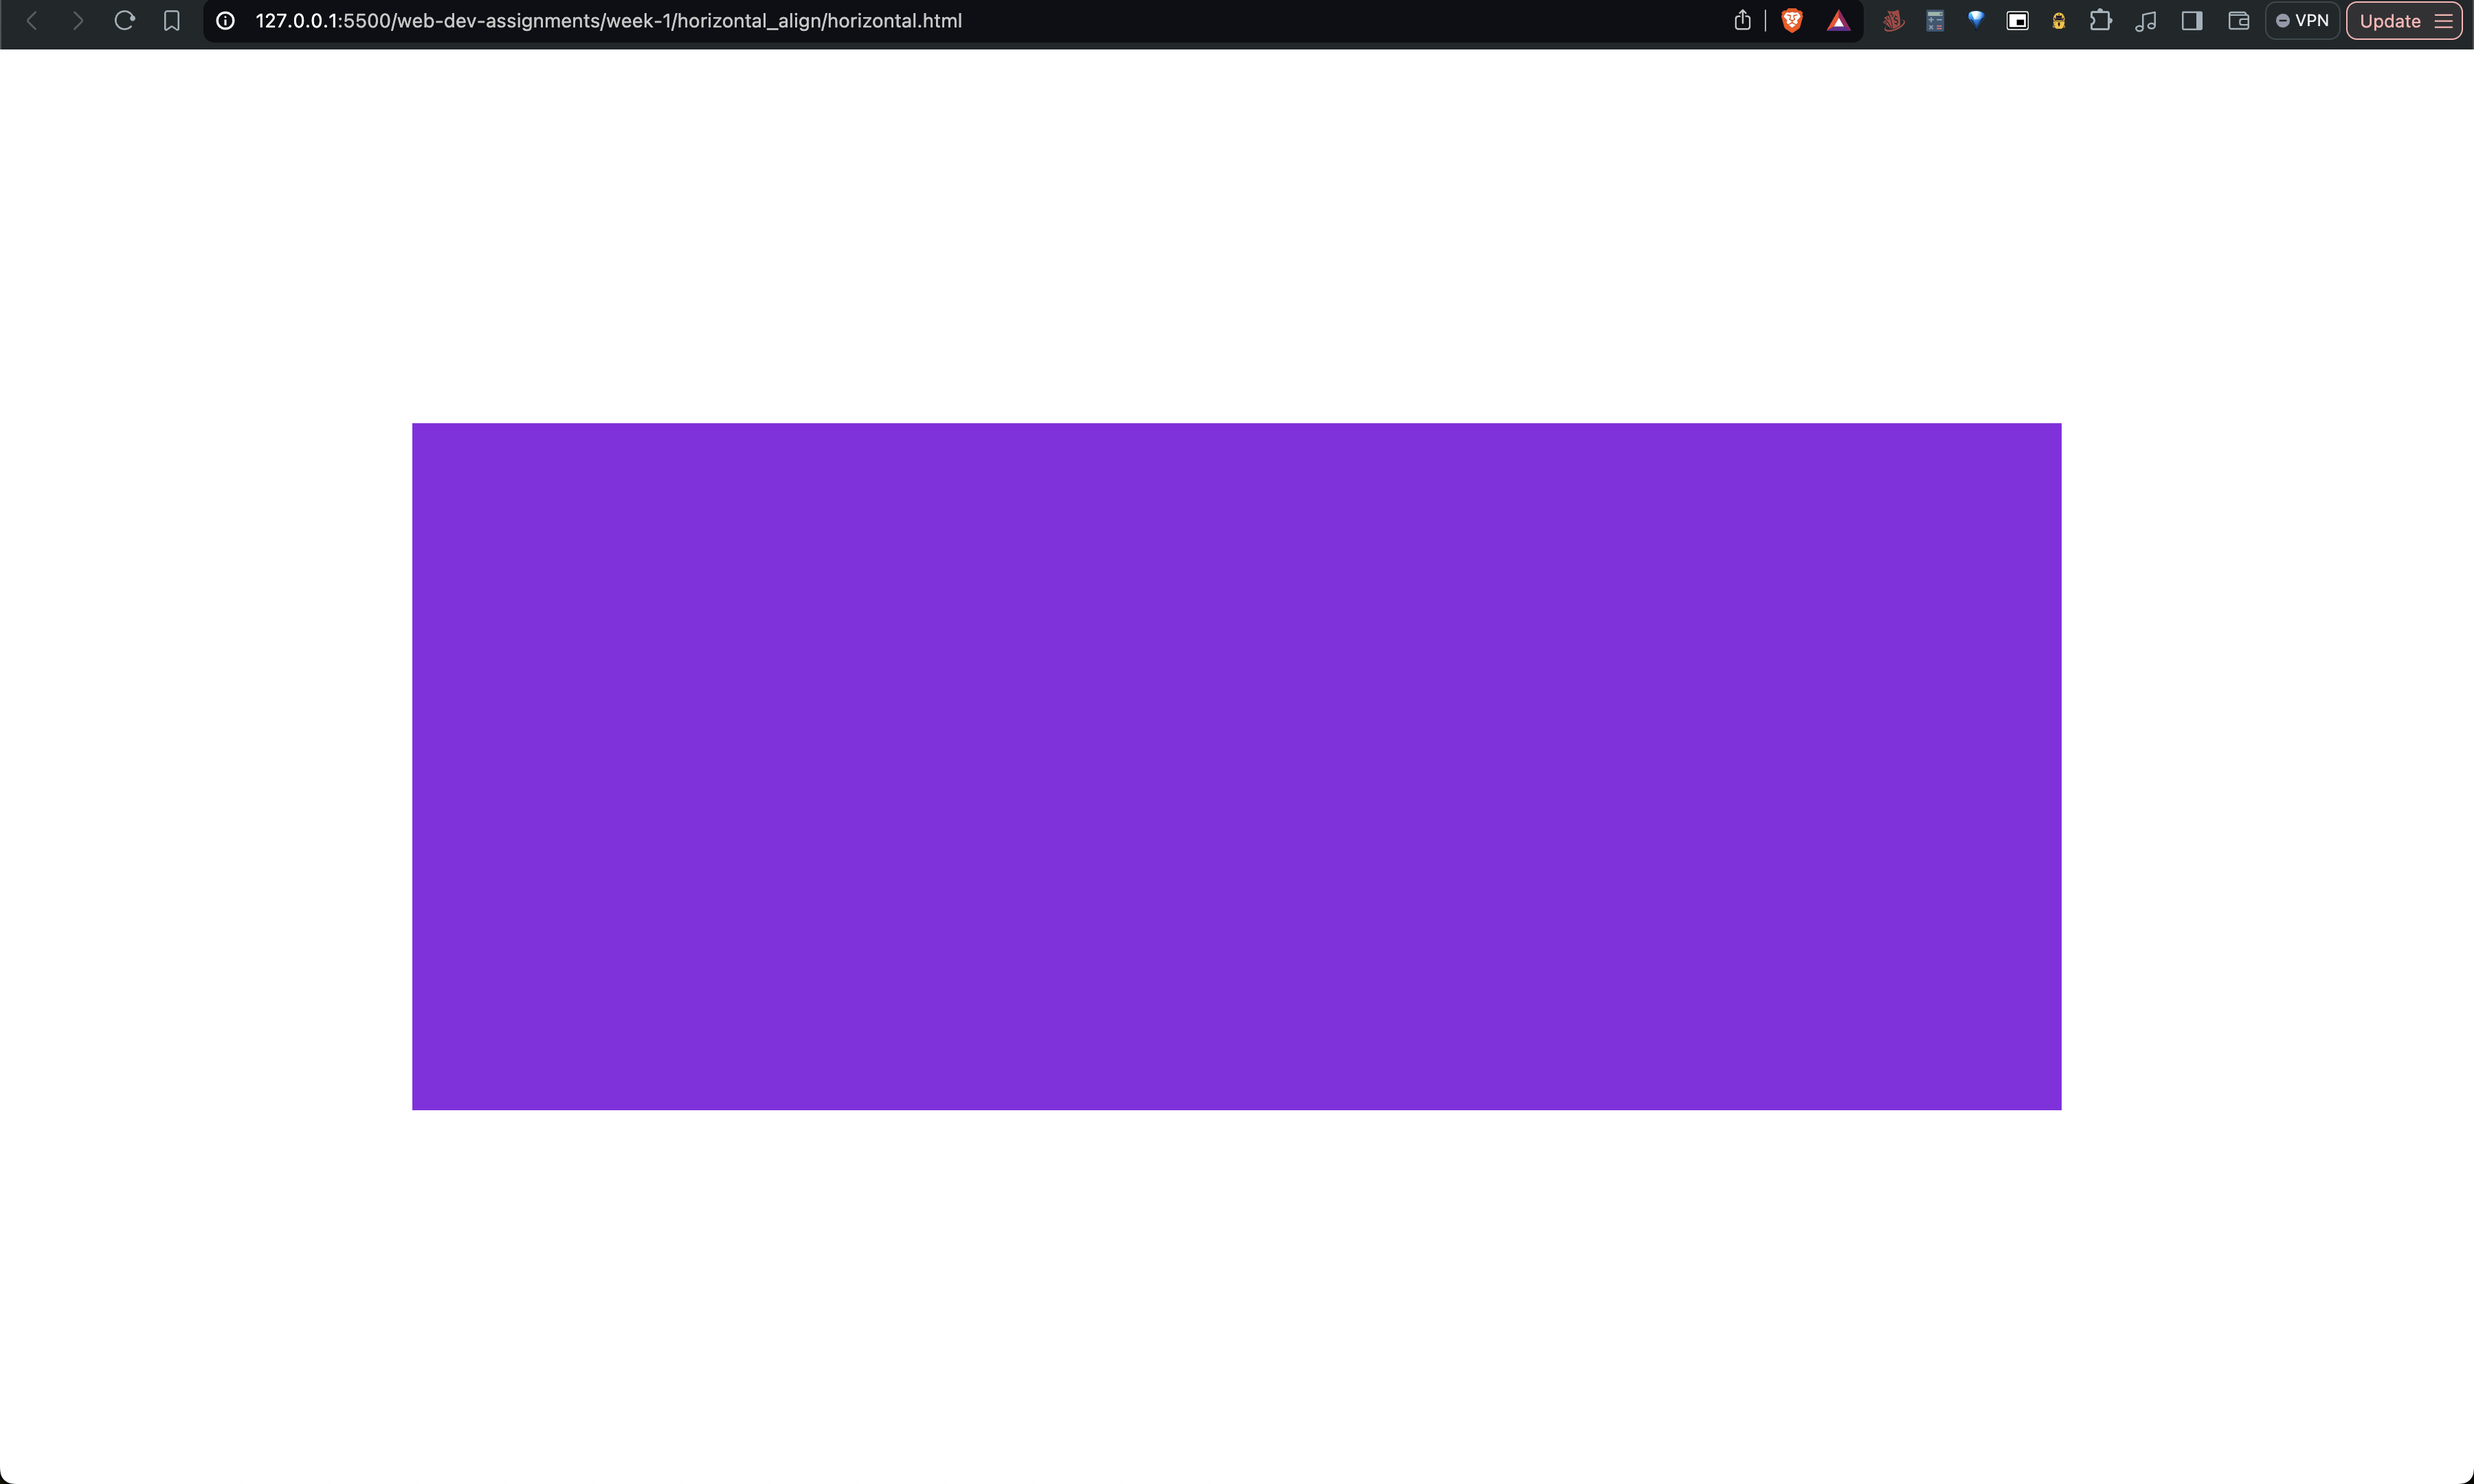
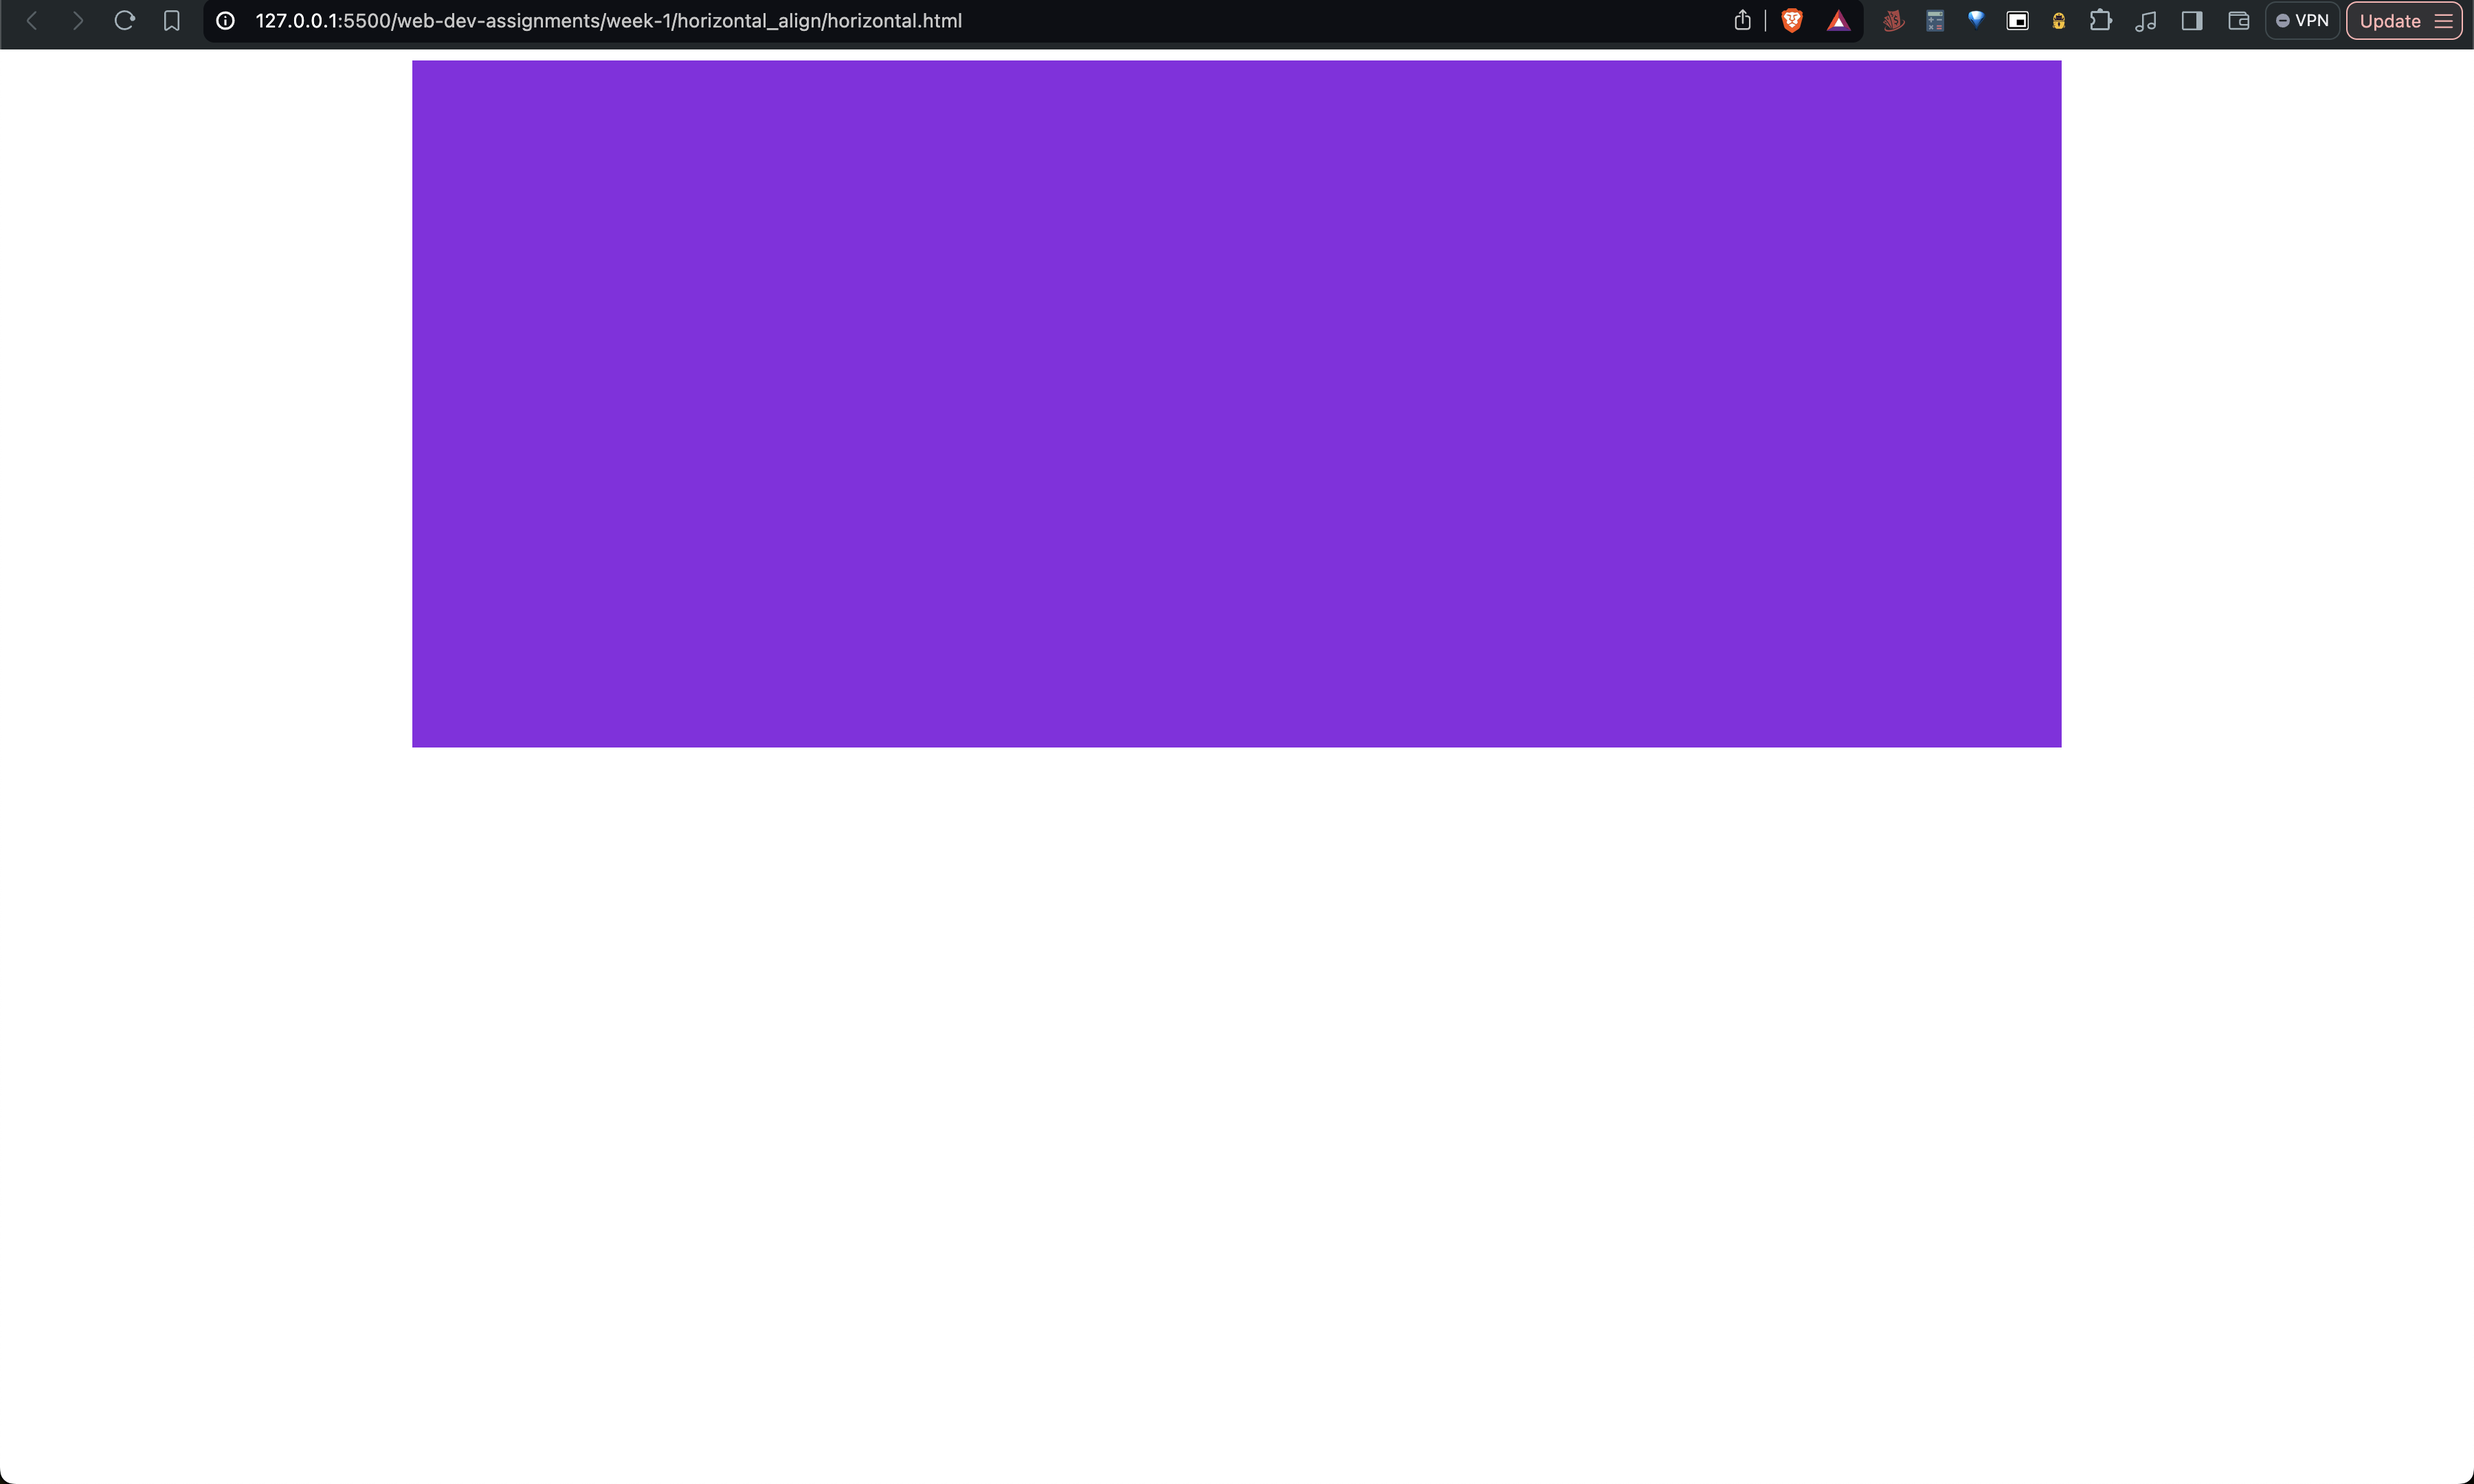
vertical and flex_layout added

diff --git a/web-dev-assignments/week-1/flex_layout/flex_layout.html b/web-dev-assignments/week-1/flex_layout/flex_layout.html
@@ -4,11 +4,12 @@
     <meta charset="UTF-8" />
     <meta name="viewport" content="width=device-width, initial-scale=1.0" />
     <title>Document</title>
-    <link rel="stylesheet" href="style.css">
+    <link rel="stylesheet" href="style.css" />
   </head>
   <body>
     <div class="container">
-    <h2> Hello World</h2>
+      <div class=" leftDiv"><h2>Left</h2></div>
+      <div class=" rightDiv"><h2>Right</h2></div>
     </div>
   </body>
 </html>

diff --git a/vertical_align/vertical.html b/vertical_align/vertical.html
@@ -4,11 +4,11 @@
     <meta charset="UTF-8" />
     <meta name="viewport" content="width=device-width, initial-scale=1.0" />
     <title>Document</title>
-    <link rel="stylesheet" href="style.css">
+    <link rel="stylesheet" href="style.css" />
   </head>
   <body>
     <div class="container">
-    <h2> Hello World</h2>
+      <div class="content"><h2>Hello World</h2></div>
     </div>
   </body>
 </html>

diff --git a/web-dev-assignments/week-1/vertical_align/vertical.html b/web-dev-assignments/week-1/vertical_align/vertical.html
@@ -4,11 +4,11 @@
     <meta charset="UTF-8" />
     <meta name="viewport" content="width=device-width, initial-scale=1.0" />
     <title>Document</title>
-    <link rel="stylesheet" href="style.css">
+    <link rel="stylesheet" href="style.css" />
   </head>
   <body>
     <div class="container">
-    <h2> Hello World</h2>
+      <div class="content"><h2>Hello World</h2></div>
     </div>
   </body>
 </html>

diff --git a/web-dev-assignments/week-1/flex_layout/style.css b/web-dev-assignments/week-1/flex_layout/style.css
@@ -1,0 +1,23 @@
+.container {
+  width: 1200px;
+  margin: auto;
+  display: flex;
+}
+
+.leftDiv {
+  background-color: blueviolet;
+  height: 100px;
+  flex-grow: 1;
+  display: flex;
+  justify-content: center;
+  flex-direction: column;
+}
+
+.rightDiv {
+  background-color: green;
+  height: 100px;
+  flex-grow: 2;
+  display: flex;
+  justify-content: center;
+  flex-direction: column;
+}

diff --git a/vertical_align/style.css b/vertical_align/style.css
@@ -1,0 +1,20 @@
+.container{
+
+    background-color: blueviolet;
+    width: 1200px;
+    height: 500px;
+    margin: auto;
+    /* display: block; */
+    
+    position: relative;
+
+}
+.content{
+
+    position: absolute;
+    top: 50%;
+    left: 50%;
+    /* transform: translate(-50%,-50%); */
+    margin: -50px 0 0 -50px;
+}
+

diff --git a/web-dev-assignments/week-1/vertical_align/style.css b/web-dev-assignments/week-1/vertical_align/style.css
@@ -1,0 +1,20 @@
+.container{
+
+    background-color: blueviolet;
+    width: 1200px;
+    height: 500px;
+    margin: auto;
+    /* display: block; */
+    
+    position: relative;
+
+}
+.content{
+
+    position: absolute;
+    top: 50%;
+    left: 50%;
+    /* transform: translate(-50%,-50%); */
+    margin: -50px 0 0 -50px;
+}
+

diff --git a/web-dev-assignments/week-1/horizontal_align/style.css b/web-dev-assignments/week-1/horizontal_align/style.css
@@ -3,10 +3,8 @@
     background-color: blueviolet;
     width: 1200px;
     height: 500px;
-    left: 50%;
-    top: 50%;
-    transform: translate(-50%, -50%);
-    position: absolute;
+    margin: auto;
+   
 
 
 }

diff --git a/web-dev-assignments/week-1/flex_layout/flex_layout_readme.md b/web-dev-assignments/week-1/flex_layout/flex_layout_readme.md
@@ -1,0 +1,13 @@
+# Assignment
+---
+- Create a simple layout where you see div with red color on the left and blue color on the right. The right grid should be twice as wide as the left one.
+
+- Contents of both the grids should be vertically centered
+
+- Also make sure its max 1200px and center of the screen
+
+
+
+# Solutions
+---
+![Flex Layout](https://github.com/tushar-asodariya/100xdevs-cohort-3-assignments/blob/main/web-dev-assignments/week-1/flex_layout/flex_layout_output.png?raw=true)

diff --git a/vertical_align/vertical_align_readme.md b/vertical_align/vertical_align_readme.md
@@ -1,0 +1,10 @@
+# Assignment
+---
+- Align Text Vertically and horizontally in horizontally centered div.
+
+
+
+
+# Solutions
+---
+![Vertical Align Div](https://github.com/tushar-asodariya/100xdevs-cohort-3-assignments/blob/main/web-dev-assignments/week-1/vertical_align/vertical_align_output.png?raw=true)

diff --git a/web-dev-assignments/week-1/vertical_align/vertical_align_readme.md b/web-dev-assignments/week-1/vertical_align/vertical_align_readme.md
@@ -1,0 +1,10 @@
+# Assignment
+---
+- Align Text Vertically and horizontally in horizontally centered div.
+
+
+
+
+# Solutions
+---
+![Vertical Align Div](https://github.com/tushar-asodariya/100xdevs-cohort-3-assignments/blob/main/web-dev-assignments/week-1/vertical_align/vertical_align_output.png?raw=true)
